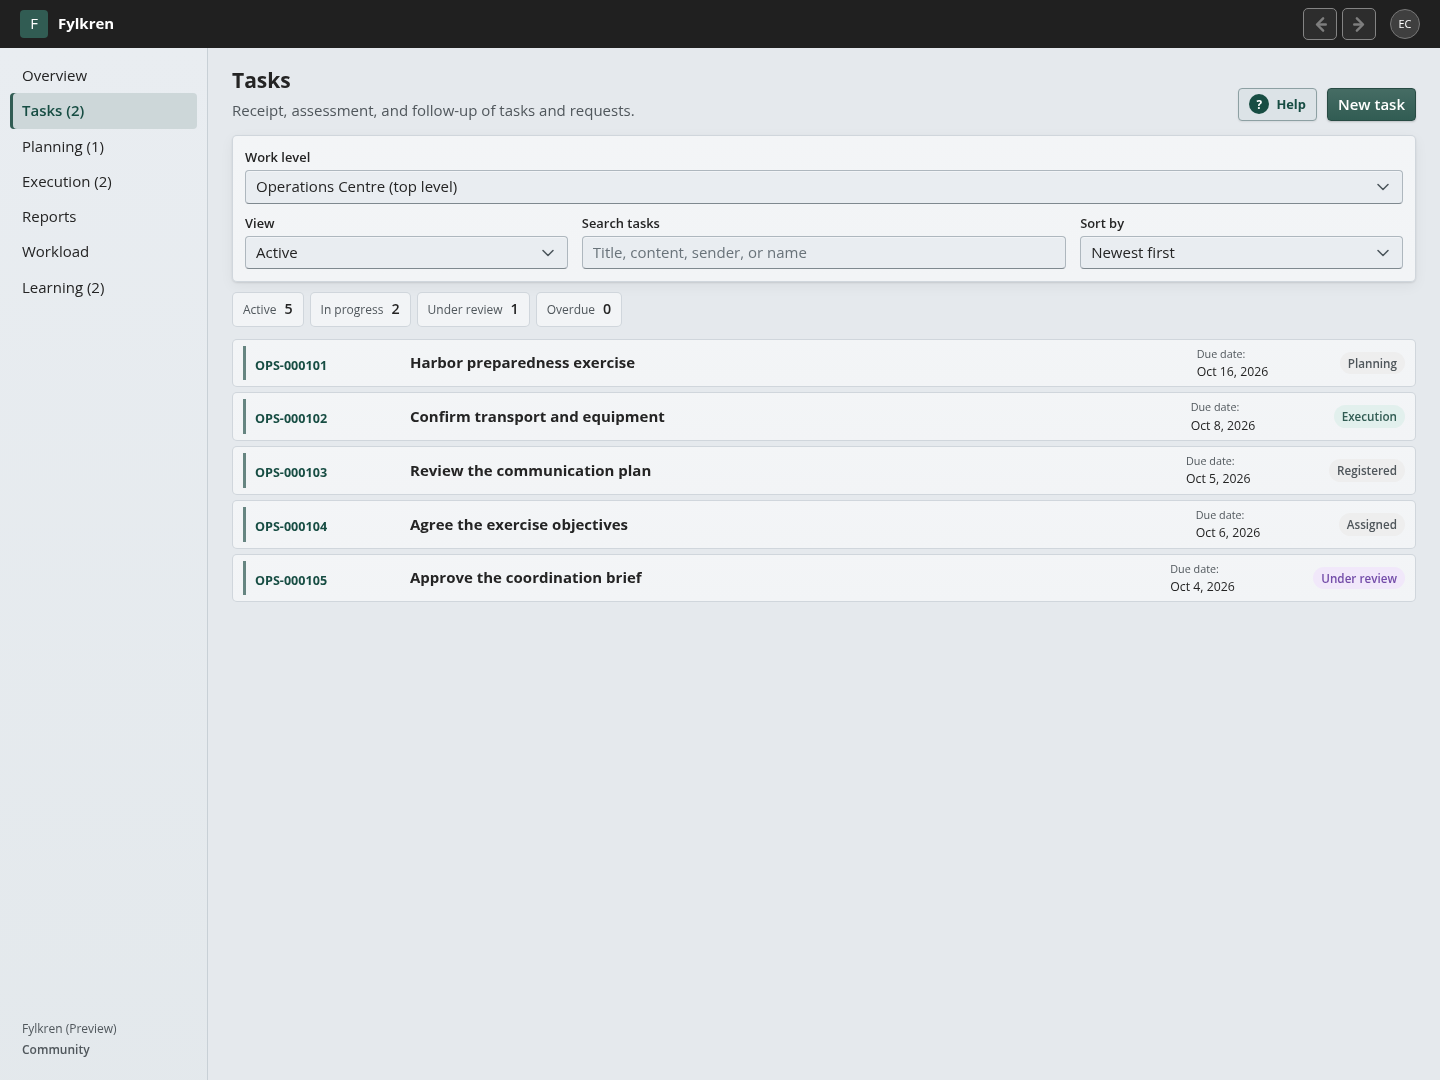
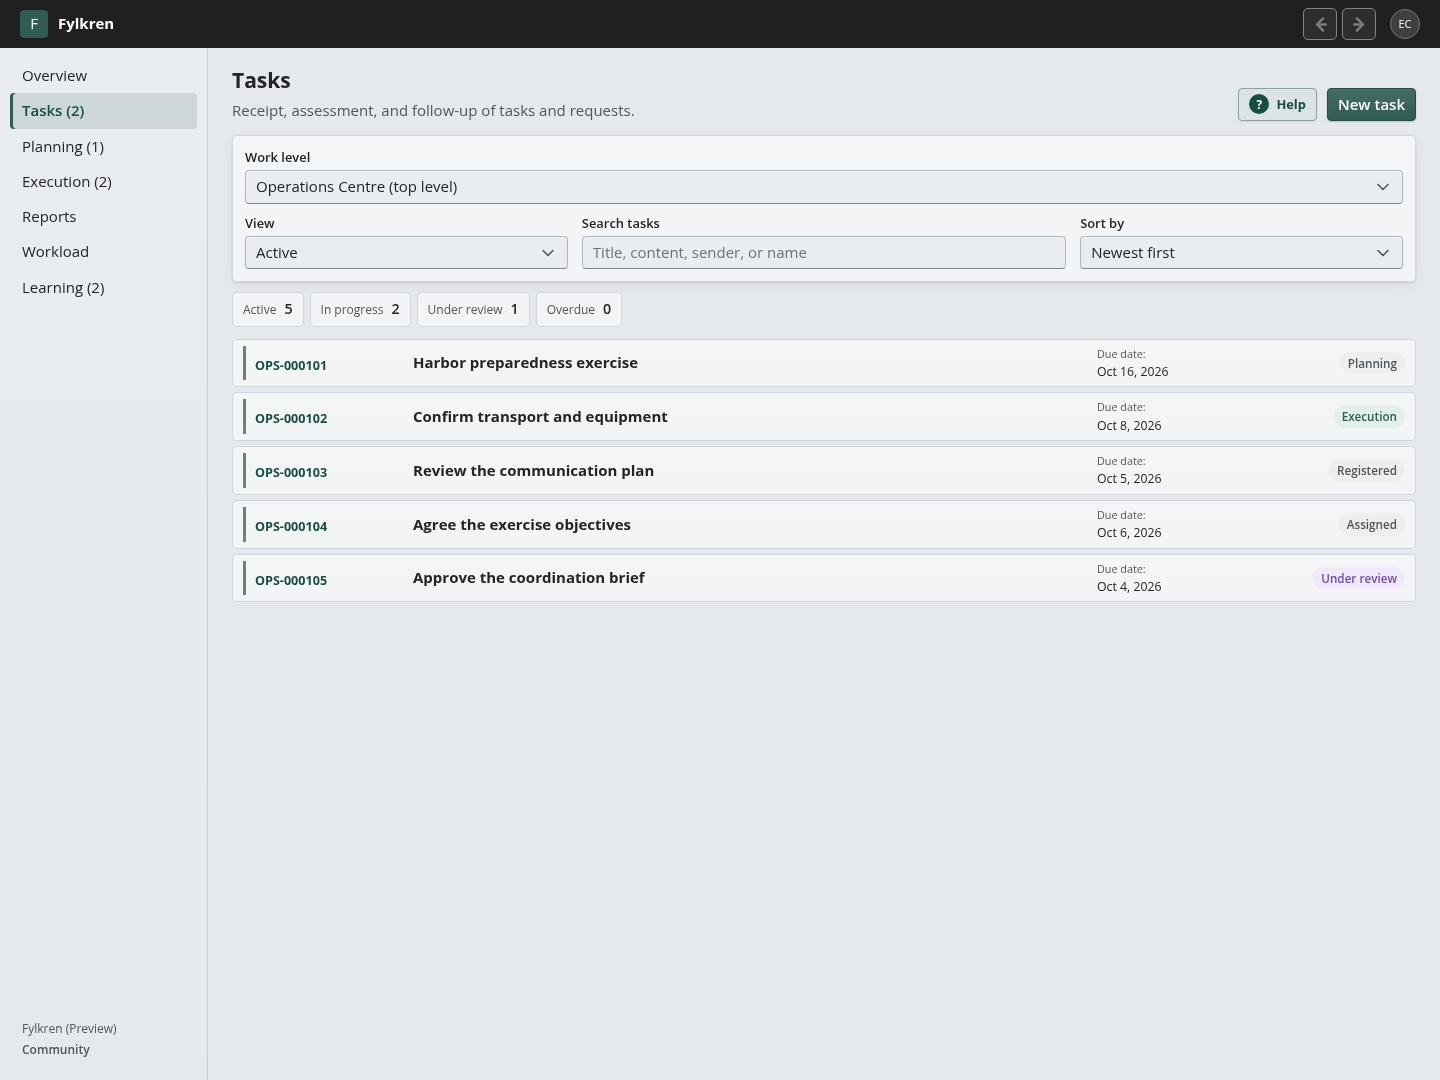
fix: keep task due dates aligned across rows

diff --git a/shared/frontend/src/compact.css b/shared/frontend/src/compact.css
@@ -61,7 +61,10 @@
   .process-card :is(.planning-result, .planning-preview, .delegation-tree, .delegation-child) { padding: 9px 10px; gap: 8px; }
   .process-card .returned-report > summary { padding: 7px 10px; }
   .process-queue.work-queue .process-card.minimized { grid-template-columns: minmax(0, 1fr); }
-  .process-queue.work-queue .process-card .task-reference-heading { grid-template-columns: minmax(132px, max-content) minmax(0, 1fr) 9rem max-content; align-items: center; }
+  .process-queue.work-queue .process-card .task-reference-heading { grid-template-columns: 9rem minmax(0, 1fr) 9rem 11rem; align-items: center; }
+  .work-queue .task-header-actions { min-width: 0; }
+  .work-queue .task-card-statuses { min-width: 0; overflow-wrap: anywhere; }
+  .work-queue .task-reference { min-width: 0; max-width: 100%; white-space: normal; overflow-wrap: anywhere; }
   .task-deadline-cell { display: grid; gap: 2px; font-size: .82rem; }
   .task-deadline-cell small { color: var(--text-muted); font-size: .72rem; }
   .process-queue.heading-toggle-queue .process-card.minimized { grid-template-columns: minmax(0, 1fr); }
@@ -75,7 +78,7 @@
 }
 @media screen and (max-width: 720px) {
   .page-header, .section-heading { flex-wrap: wrap; }
-  .process-queue.work-queue .process-card .task-reference-heading { grid-template-columns: minmax(80px, max-content) minmax(0, 1fr); gap: 4px 8px; }
+  .process-queue.work-queue .process-card .task-reference-heading { grid-template-columns: 5rem minmax(0, 1fr); gap: 4px 8px; }
   .work-queue .task-deadline-cell { grid-column: 2; display: flex; flex-wrap: wrap; align-items: baseline; gap: 5px; }
   .work-queue .task-header-actions { grid-column: 2; justify-content: flex-start; flex-wrap: wrap; }
 }

diff --git a/CHANGELOG.md b/CHANGELOG.md
@@ -4,6 +4,8 @@ This file records durable, user-visible release changes. Detailed implementation
 
 ## Unreleased
 
+- Aligned the Tasks due-date column across rows by giving reference and status columns consistent widths, including when a task is opened.
+
 - Made individual learning-point treatment clearer with clickable status controls for leaders, explicit opening instructions and an explanation for users with read-only treatment access.
 
 - Restarted numbering separately for each final-report learning list and moved learning categories into a compact green/red indicator column before the observation text.
